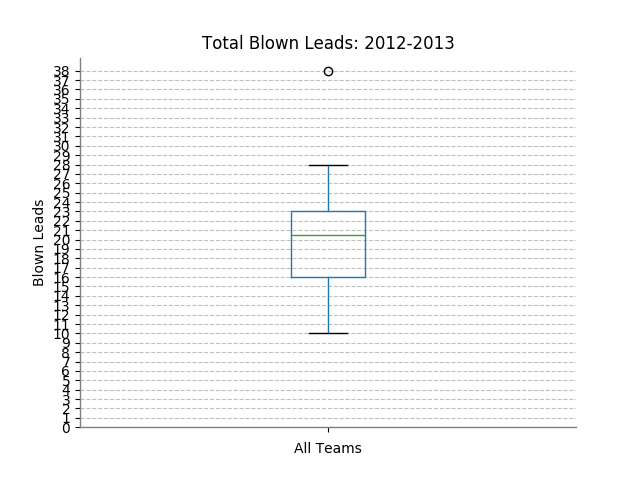
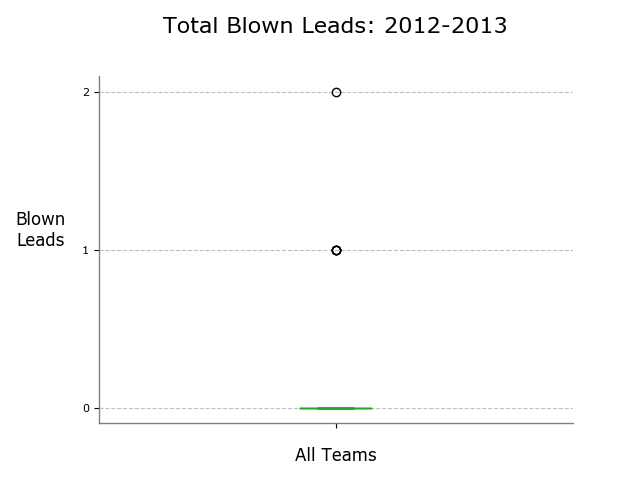
chart formatting improvements 9/18

diff --git a/src/box_score_data_analysis.py b/src/box_score_data_analysis.py
@@ -1,13 +1,14 @@
 import json
 import pandas as pd
 from matplotlib import pyplot as plt
+plt.rcParams["font.family"] = "Verdana"
 from src.BoxScore import BoxScore
 import datetime
 import time
 import statistics
 start_time = datetime.datetime.now()
 
-with open('data/box_score_data.json', 'r') as f:
+with open('data/box_score_data_small.json', 'r') as f:
     box_score_data = json.load(f)
 
 box_score_data_frame = pd.DataFrame()
@@ -38,12 +39,17 @@ blown_leads_total_data_plot.spines['left'].set_edgecolor('0.5')
 blown_leads_total_data_plot.spines['left'].set_linewidth(1)
 blown_leads_total_data_plot.spines['bottom'].set_edgecolor('0.5')
 blown_leads_total_data_plot.spines['bottom'].set_linewidth(1)
-plt.title(f'Total Blown Leads: {seasons[0]}-{seasons[-1]}')
-plt.xlabel('Teams')
-plt.ylabel('Blown Leads')
-plt.yticks(y_ticks)
+plt.title(f'Total Blown Leads: {seasons[0]}-{seasons[-1]}', y=1.10, fontsize=16)
+plt.xlabel('Teams', labelpad=10, fontsize=12)
+plt.ylabel('Blown\nLeads', rotation=0, labelpad=40, fontsize=12)
+plt.yticks(y_ticks, fontsize=8)
+plt.xticks(fontsize=8)
 plt.grid(True, color='0.75', linestyle='--', which='both', axis='y')
-plt.savefig('results/blown_leads_total_data_bar_chart.png', bbox_inches='tight')
+plt.subplots_adjust(right=0.5)
+plt.tight_layout()
+plt.savefig('results/blown_leads_total_data_bar_chart.png')
+
+
 
 # TODOTODOTODO
 # number of total blown leads per team per season
@@ -60,7 +66,7 @@ for season in seasons:
 blown_leads_all_seasons_data = blown_leads_all_seasons_data.sort_values(by=['blown_leads', 'team_abbrv'], ascending=[False, True])
 blown_leads_all_seasons_data_plot = blown_leads_all_seasons_data.plot(kind='bar')
 # blown_leads_all_seasons_data_plot = blown_leads_all_seasons_data.iloc[0:50].plot(kind='bar')
-plt.savefig('results/blown_leads_all_seasons_bar.png')
+plt.savefig('results/blown_leads_all_seasons_bar.png', bbox_inches='tight')
 
 # range of blown leads for the league (with team id)
 aggregation_function = {'blown_leads': 'sum'}
@@ -99,13 +105,16 @@ blown_leads_total_data_plot.spines['left'].set_edgecolor('0.5')
 blown_leads_total_data_plot.spines['left'].set_linewidth(1)
 blown_leads_total_data_plot.spines['bottom'].set_edgecolor('0.5')
 blown_leads_total_data_plot.spines['bottom'].set_linewidth(1)
-plt.title(f'Total Blown Leads: {seasons[0]}-{seasons[-1]}')
-plt.xlabel('All Teams')
+plt.title(f'Total Blown Leads: {seasons[0]}-{seasons[-1]}', y=1.10, fontsize=16)
+plt.xlabel('All Teams', labelpad=10, fontsize=12)
 # hide the x tick label
 blown_leads_total_data_plot.set_xticklabels('')
-plt.ylabel('Blown Leads')
-plt.yticks(y_ticks)
+plt.ylabel('Blown\nLeads', rotation=0, labelpad=30, fontsize=12)
+plt.yticks(y_ticks, fontsize=8)
+plt.xticks(fontsize=8)
 plt.grid(True, color='0.75', linestyle='--', which='both', axis='y')
+plt.subplots_adjust(right=0.5)
+plt.tight_layout()
 plt.savefig('results/blown_leads_total_data_box_plot.png')
 
 # mean, median, mode, range of blown leads for the league per season
@@ -139,12 +148,15 @@ blown_leads_per_season_data_plot.spines['left'].set_edgecolor('0.5')
 blown_leads_per_season_data_plot.spines['left'].set_linewidth(1)
 blown_leads_per_season_data_plot.spines['bottom'].set_edgecolor('0.5')
 blown_leads_per_season_data_plot.spines['bottom'].set_linewidth(1)
-plt.title(f'Total Blown Leads for each Season: {seasons[0]}-{seasons[-1]}')
-plt.xlabel('Seasons')
+plt.title(f'Total Blown Leads\nfor each Season: {seasons[0]}-{seasons[-1]}', y=1.10, fontsize=16)
+plt.xlabel('Seasons', labelpad=10, fontsize=12)
 blown_leads_per_season_data_plot.set_xticklabels(seasons)
-plt.ylabel('Blown Leads')
-plt.yticks(y_ticks)
+plt.ylabel('Blown\nLeads', rotation=0, labelpad=30, fontsize=12)
+plt.yticks(y_ticks, fontsize=8)
+plt.xticks(fontsize=8)
 plt.grid(True, color='0.75', linestyle='--', which='both', axis='y')
+plt.subplots_adjust(right=0.5)
+plt.tight_layout()
 plt.savefig('results/blown_leads_per_season_box_plot.png')
 
 # mean, median, mode, range of blown leads for STL
@@ -157,13 +169,16 @@ stl_blown_leads_data_plot.spines['left'].set_edgecolor('0.5')
 stl_blown_leads_data_plot.spines['left'].set_linewidth(1)
 stl_blown_leads_data_plot.spines['bottom'].set_edgecolor('0.5')
 stl_blown_leads_data_plot.spines['bottom'].set_linewidth(1)
-plt.title(f'Total Blown Leads for the St. Louis Cardinals: {seasons[0]}-{seasons[-1]}')
-plt.xlabel('STL')
+plt.title(f'Total Blown Leads for the St. Louis Cardinals: {seasons[0]}-{seasons[-1]}', y=1.10, fontsize=16)
+plt.xlabel('STL', labelpad=10, fontsize=12)
 stl_blown_leads_data_plot.set_xticklabels('')
-plt.ylabel('Blown Leads')
-plt.yticks(y_ticks)
+plt.ylabel('Blown\nLeads', rotation=0, labelpad=30, fontsize=12)
+plt.yticks(y_ticks, fontsize=8)
+plt.xticks(fontsize=8)
 plt.grid(True, color='0.75', linestyle='--', which='both', axis='y')
-plt.savefig('results/stl_blown_leads.png')
+# plt.subplots_adjust(right=0.5)
+# plt.tight_layout()
+plt.savefig('results/stl_blown_leads.png', bbox_inches='tight')
 
 stl_blown_leads_stats_dict = {}
 stl_blown_leads = blown_leads_per_season_data.loc['STL']
